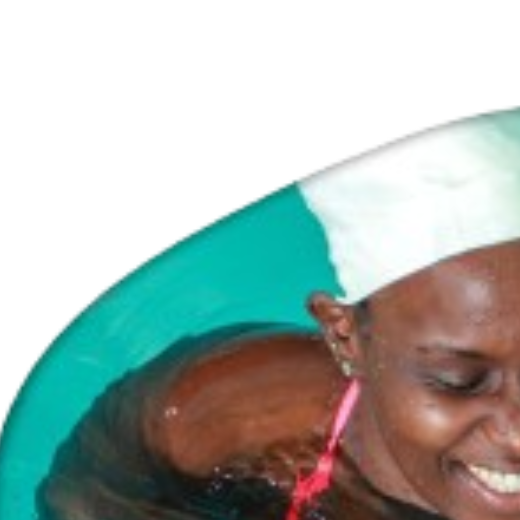
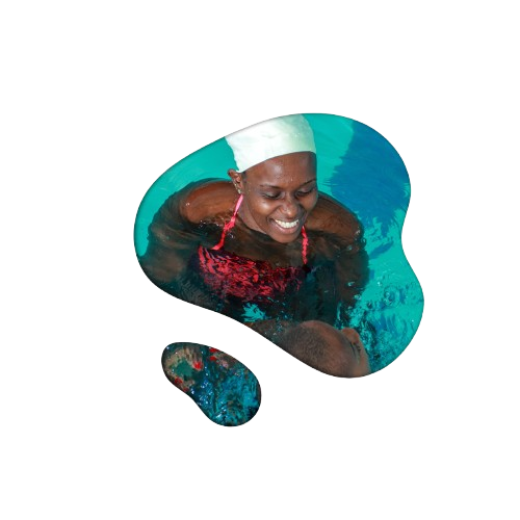
Revamp hero, gallery, navbar; add hero3 image
Refactor UI components and assets for a simpler, more responsive homepage.

- Hero: removed framer-motion usage, simplified markup into a responsive 2-column layout, adjusted spacing and typography, embedded inline heart icon, and switched to a static /images/hero3.png Image with explicit dimensions.
- PlayfulGallery: removed interactive state and complex featured/thumbnail layout; reduced to five images, updated alt texts, and implemented a horizontal oval image strip (added hero3.png as the fifth image).
- Navbar: renamed "Services" to "Our Services" and updated dropdown item labels to descriptive names (Exercise Therapy, Education and Training).
- Team page CTA: changed background to orange, updated headline and primary button label.
- Assets: updated public/images/hero1.png and added new public/images/hero3.png.

These changes simplify animations, improve responsiveness, and streamline the gallery for a cleaner, more maintainable UI.

diff --git a/src/components/PlayfulGallery.tsx b/src/components/PlayfulGallery.tsx
@@ -1,185 +1,78 @@
 "use client";
 
-import { useState } from "react";
 import Image from "next/image";
 
 const PlayfulGallery = () => {
-  const [activeImage, setActiveImage] = useState(0);
-
-  // Sample images (replace with your own)
+  // Five images only
   const galleryImages = [
     {
       id: 1,
       src: "/images/IMG_9611.jpg",
-      alt: "Kids painting together",
-      title: "",
-      emoji: "",
+      alt: "Kids painting together joyfully",
     },
     {
       id: 2,
       src: "/images/IMG_9642.jpg",
-      alt: "Child playing with blocks",
-      title: "",
-      emoji: "",
+      alt: "Child building with colorful blocks",
     },
     {
       id: 3,
       src: "/images/IMG_2325.jpg",
-      alt: "Kids reading books",
-      title: "",
-      emoji: "",
+      alt: "Children reading books with big smiles",
     },
     {
       id: 4,
       src: "/images/IMG_2182.jpg",
-      alt: "Children dancing",
-      title: "",
-      emoji: "",
+      alt: "Group of children dancing happily",
+    },
+    {
+      id: 5,
+      src: "/images/hero3.png", // or any fifth image you have
+      alt: "Child reaching for the sky in playful movement",
     },
   ];
 
   return (
-    <section className="py-12 px-4 md:px-8">
+    <section className="py-16 px-4 md:px-8 bg-gradient-to-b from-white to-gray-50">
       {/* Header */}
-      <div className="text-center mb-12">
-        <h2 className="text-4xl md:text-5xl font-bold text-gray-800 mb-4">
-          Our{" "}
-          <span className="text-transparent bg-clip-text bg-gradient-to-r from-orange-500 to-amber-600">
-            Wonderful
-          </span>{" "}
-          World
+      <div className="text-center mb-10 md:mb-14">
+        <h2 className="text-4xl md:text-5xl font-serif font-bold text-[#4793FF] mb-4">
+          Moments of <span className="text-[#FFB347]">Joy</span>
         </h2>
-        <p className="text-xl text-gray-600 max-w-2xl mx-auto">
-          Where imagination meets fun! Explore our magical moments captured in
-          pictures.
+        <p className="text-lg md:text-xl text-gray-600 max-w-3xl mx-auto">
+          Capturing the magic of movement, laughter, and growth at Arukah
+          Health.
         </p>
-
-        {/* Decorative border */}
-        <div className="flex justify-center mt-6 space-x-2">
-          {["", , "", "", ""].map((emoji, i) => (
-            <span
-              key={i}
-              className="text-2xl animate-bounce"
-              style={{ animationDelay: `${i * 200}ms` }}
-            >
-              {emoji}
-            </span>
-          ))}
-        </div>
       </div>
 
-      {/* Main Gallery Layout */}
-      <div className="max-w-6xl mx-auto">
-        <div className="grid grid-cols-1 lg:grid-cols-3 gap-8">
-          {/* Featured Image - Left Side */}
-          <div className="lg:col-span-2">
-            <div className="relative h-[400px] md:h-[500px] rounded-3xl overflow-hidden shadow-2xl transform hover:scale-[1.02] transition-transform duration-500">
-              <Image
-                src={galleryImages[activeImage].src}
-                alt={galleryImages[activeImage].alt}
-                fill
-                className="object-cover"
-                sizes="(max-width: 768px) 100vw, 66vw"
-              />
-
-              {/* Overlay */}
-              <div className="absolute inset-0 bg-gradient-to-t from-black/40 to-transparent"></div>
-
-              {/* Image Info */}
-              <div className="absolute bottom-6 left-6 right-6">
-                <div className="bg-white/90 backdrop-blur-sm rounded-2xl p-4 md:p-6 inline-flex items-center gap-4">
-                  <span className="text-4xl">
-                    {galleryImages[activeImage].emoji}
-                  </span>
-                  <div>
-                    <h3 className="text-2xl md:text-3xl font-bold text-gray-800">
-                      {galleryImages[activeImage].title}
-                    </h3>
-                    <p className="text-gray-600 mt-1">
-                      Click on other pictures to explore!
-                    </p>
-                  </div>
-                </div>
-              </div>
-
-              {/* Floating Elements */}
-              <div className="absolute top-6 right-6 w-16 h-16 bg-yellow-300/30 rounded-full blur-lg animate-pulse"></div>
-              <div className="absolute top-20 left-10 w-12 h-12 bg-blue-400/30 rounded-full blur-lg animate-pulse delay-300"></div>
-            </div>
-          </div>
-
-          {/* Thumbnail Grid - Right Side */}
-          <div className="space-y-6">
-            {galleryImages.map((image, index) => (
-              <button
-                key={image.id}
-                onClick={() => setActiveImage(index)}
-                className={`relative w-full h-32 rounded-2xl overflow-hidden group transition-all duration-300 ${
-                  activeImage === index
-                    ? "ring-4 ring-yellow-400 scale-105 shadow-xl"
-                    : "hover:scale-105 hover:ring-2 hover:ring-blue-300"
-                }`}
-              >
-                {/* Thumbnail Image */}
+      {/* Gallery – straight line of oval images */}
+      <div className="max-w-7xl mx-auto">
+        <div className="flex flex-nowrap md:flex-wrap justify-start md:justify-center gap-6 md:gap-8 overflow-x-auto pb-4 scrollbar-hide">
+          {galleryImages.map((image) => (
+            <div
+              key={image.id}
+              className="flex-shrink-0 w-64 h-64 md:w-72 md:h-72 relative group"
+            >
+              {/* Oval border + image */}
+              <div className="w-full h-full rounded-full border-4 border-[#FFB347] overflow-hidden shadow-lg transition-all duration-300 group-hover:scale-105 group-hover:shadow-2xl">
                 <Image
                   src={image.src}
                   alt={image.alt}
                   fill
                   className="object-cover"
-                  sizes="(max-width: 768px) 100vw, 33vw"
+                  sizes="(max-width: 768px) 256px, 288px"
                 />
+              </div>
 
-                {/* Overlay */}
-                <div
-                  className={`absolute inset-0 transition-colors duration-300 ${
-                    activeImage === index
-                      ? "bg-blue-400/20"
-                      : "bg-black/30 group-hover:bg-black/10"
-                  }`}
-                ></div>
-
-                {/* Thumbnail Content */}
-                <div className="absolute inset-0 flex items-center justify-center">
-                  <div
-                    className={`transform transition-all duration-300 ${
-                      activeImage === index
-                        ? "scale-125 rotate-6"
-                        : "group-hover:scale-110"
-                    }`}
-                  >
-                    <span className="text-4xl drop-shadow-lg">
-                      {image.emoji}
-                    </span>
-                  </div>
-                </div>
-
-                {/* Active Indicator */}
-                {activeImage === index && (
-                  <div className="absolute top-2 right-2 w-6 h-6 bg-yellow-400 rounded-full flex items-center justify-center">
-                    <span className="text-sm">✨</span>
-                  </div>
-                )}
-              </button>
-            ))}
-          </div>
-        </div>
-
-        {/* Dots Indicator */}
-        <div className="flex justify-center mt-8 space-x-4">
-          {galleryImages.map((_, index) => (
-            <button
-              key={index}
-              onClick={() => setActiveImage(index)}
-              className={`w-4 h-4 rounded-full transition-all duration-300 ${
-                activeImage === index
-                  ? "bg-gradient-to-r from-pink-500 to-purple-600 scale-125"
-                  : "bg-gray-300 hover:bg-gray-400"
-              }`}
-              aria-label={`Go to image ${index + 1}`}
-            />
+              {/* Optional subtle hover overlay */}
+              <div className="absolute inset-0 rounded-full bg-gradient-to-t from-black/30 to-transparent opacity-0 group-hover:opacity-100 transition-opacity duration-300 pointer-events-none" />
+            </div>
           ))}
         </div>
       </div>
+
+      {/* Optional caption below */}
+      <p className="text-center text-gray-500 mt-10 text-sm md:text-base"></p>
     </section>
   );
 };

diff --git a/src/components/Hero.tsx b/src/components/Hero.tsx
@@ -1,82 +1,64 @@
 "use client";
 
-import { motion, Variants } from "framer-motion";
 import Link from "next/link";
 import Image from "next/image";
 import { LuHeart } from "react-icons/lu";
 
-const floatingVariants: Variants = {
-  animate: {
-    y: [0, -15, 0],
-    transition: { duration: 6, repeat: Infinity, ease: "easeInOut" },
-  },
-};
 export default function Hero() {
   return (
-    <section className="relative min-h-screen flex items-center justify-center pt-32 pb-20 bg-white overflow-hidden">
-      {/* Subtle floating accents (optional – remove if you want ultra-clean) */}
+    <section className="relative min-h-screen flex items-center justify-center pt-28 pb-16 md:pt-32 md:pb-20 bg-white">
+      <div className="relative z-10 max-w-7xl mx-auto px-5 sm:px-6 lg:px-8">
+        <div className="grid grid-cols-1 md:grid-cols-2 gap-10 md:gap-12 lg:gap-16 items-center">
+          {/* Text Content – comes FIRST on mobile */}
+          <div className="text-center md:text-left order-1 md:order-1">
+            <h1 className="text-5xl sm:text-6xl md:text-6xl lg:text-7xl font-serif font-extrabold text-blue-700 mb-6 md:mb-8 leading-tight">
+              Exercise Is{" "}
+              <span className="inline-block px-4 py-1.5 sm:px-5 sm:py-2 bg-[#FFB347] text-white rounded-xl shadow-lg font-serif font-bold tracking-wide align-middle">
+                L
+                <LuHeart className="inline-block text-red-500 align-middle mx-1" />
+                VE
+              </span>
+            </h1>
 
-      <div className="relative z-10 max-w-7xl mx-auto px-6 grid md:grid-cols-2 gap-16 items-center">
-        {/* Left: Text Content */}
-        <motion.div
-          initial={{ opacity: 0, x: -60 }}
-          animate={{ opacity: 1, x: 0 }}
-          transition={{ duration: 1, ease: "easeOut" }}
-          className="text-center md:text-left"
-        >
-          <h1 className="text-5xl md:text-7xl font-serif text-blue-700 font-extrabold mb-8 leading-tight">
-            Exercise Is{" "}
-            <span className="inline-block px-5 py-2 bg-[#FFB347] text-white rounded-xl shadow-lg font-serif font-bold tracking-wide">
-              L<LuHeart className="inline-block text-red-500" />
-              VE
-            </span>
-          </h1>
-
-          <p className="text-xl md:text-3xl font-serif text-gray-800 mb-10 max-w-xl">
-            Redefining Recovery, Reclaiming Milestones, Reshaping Beliefs, and
-            Transforming Lives through the Power of Movement.
-          </p>
-
-          <div className="mb-12">
-            <h2 className="text-3xl md:text-4xl font-serif font-bold text-blue-700 mb-5">
-              THERAPY THROUGH MOTION
-            </h2>
-            <p className="text-lg md:text-xl text-gray-700 leading-relaxed">
-              We offer exercise sessions to children with neuro-developmental
-              challenges and milestone delays, helping them build strength,
-              improve mobility, stabilize posture, build physical capacity,
-              establish physical function and enhance their independence.
+            <p className="text-lg sm:text-xl md:text-2xl lg:text-3xl font-serif text-gray-800 mb-8 md:mb-10 max-w-3xl mx-auto md:mx-0">
+              Redefining Recovery, Reclaiming Milestones, Reshaping Beliefs, and
+              Transforming Lives through the Power of Movement.
             </p>
+
+            <div className="mb-10 md:mb-12">
+              <h2 className="text-2xl sm:text-3xl md:text-4xl font-serif font-bold text-blue-700 mb-4 md:mb-5">
+                THERAPY THROUGH MOTION
+              </h2>
+              <p className="text-base sm:text-lg md:text-xl text-gray-700 leading-relaxed">
+                We offer exercise sessions to children with neuro-developmental
+                challenges and milestone delays, helping them build strength,
+                improve mobility, stabilize posture, build physical capacity,
+                establish physical function and enhance their independence.
+              </p>
+            </div>
+
+            <Link
+              href="/about"
+              className="inline-block bg-[#FFB347] hover:bg-orange-600 text-white font-bold py-4 px-10 sm:py-5 sm:px-12 md:px-14 rounded-full text-lg sm:text-xl shadow-lg transform hover:scale-105 transition duration-300"
+            >
+              KNOW MORE →
+            </Link>
           </div>
 
-          <Link
-            href="/about"
-            className="inline-block bg-[#FFB347]  hover:bg-orange-600 text-white font-bold py-5 px-14 rounded-full text-xl shadow-lg transform hover:scale-105 transition duration-300"
-          >
-            KNOW MORE →
-          </Link>
-        </motion.div>
-
-        {/* Right: Single Hero Image with irregular border */}
-        <motion.div
-          initial={{ opacity: 0, scale: 0.95 }}
-          animate={{ opacity: 1, scale: 1 }}
-          transition={{ duration: 1.3, delay: 0.4 }}
-          className="relative rounded-3xl  shadow-2xl aspect-[4/5] md:aspect-auto"
-        >
-          <div className="absolute  ">
-            <Image
-              src="/images/"
-              alt="Hero Image"
-              fill
-              className="object-cover"
-              priority
-            />
+          {/* Image – comes SECOND on mobile */}
+          <div className="order-2 md:order-2 flex justify-center md:justify-end">
+            <div className="relative w-full max-w-sm sm:max-w-md md:max-w-lg lg:max-w-xl">
+              <Image
+                src="/images/hero3.png"
+                alt="Child engaged in joyful movement therapy"
+                width={700}
+                height={700}
+                className="w-full h-auto object-cover "
+                priority
+              />
+            </div>
           </div>
-
-          {/* Optional subtle overlay gradient for depth */}
-          <div className="absolute inset-0 bg-gradient-to-t from-black/20 via-transparent to-transparent pointer-events-none" />
-        </motion.div>
+        </div>
       </div>
     </section>
   );

diff --git a/src/app/team/page.tsx b/src/app/team/page.tsx
@@ -154,10 +154,10 @@ export default function TeamPage() {
       </section>
 
       {/* CTA */}
-      <section className="py-16 bg-slate-300 text-white">
+      <section className="py-16 bg-orange-300 text-white">
         <div className="max-w-4xl mx-auto px-4 text-center">
           <h2 className="text-3xl md:text-4xl font-bold font-['Playfair_Display']">
-            Ready to Start Healing?
+            Get Started with Arukah Health Today!
           </h2>
           <p className="mt-4 text-lg text-black">
             Your first session is just one click away.
@@ -166,7 +166,7 @@ export default function TeamPage() {
             onClick={() => router.push("/services")}
             className="mt-6 bg-[gold] text-[white] px-8 py-3 rounded-lg font-bold hover:bg-gray-900 transition"
           >
-            Book Appointment
+            Contact us
           </button>
         </div>
       </section>

diff --git a/src/components/Navbar.tsx b/src/components/Navbar.tsx
@@ -25,15 +25,13 @@ const navItems = [
   { label: "Home", href: "/", icon: Home },
   { label: "About Us", href: "/about", icon: Info },
   {
-    label: "Services",
+    label: "Our Services",
     href: "/services",
     icon: Briefcase,
     hasDropdown: true,
     dropdownItems: [
-      { label: "P", icon: HeartPulse },
-      { label: "N", icon: UsersRound },
-      { label: "F", icon: BookOpen },
-      { label: "C", icon: Globe },
+      { label: "Exercise Therapy", icon: HeartPulse },
+      { label: "Education and Training", icon: UsersRound },
     ],
   },
   { label: "Team", href: "/team", icon: Users },
